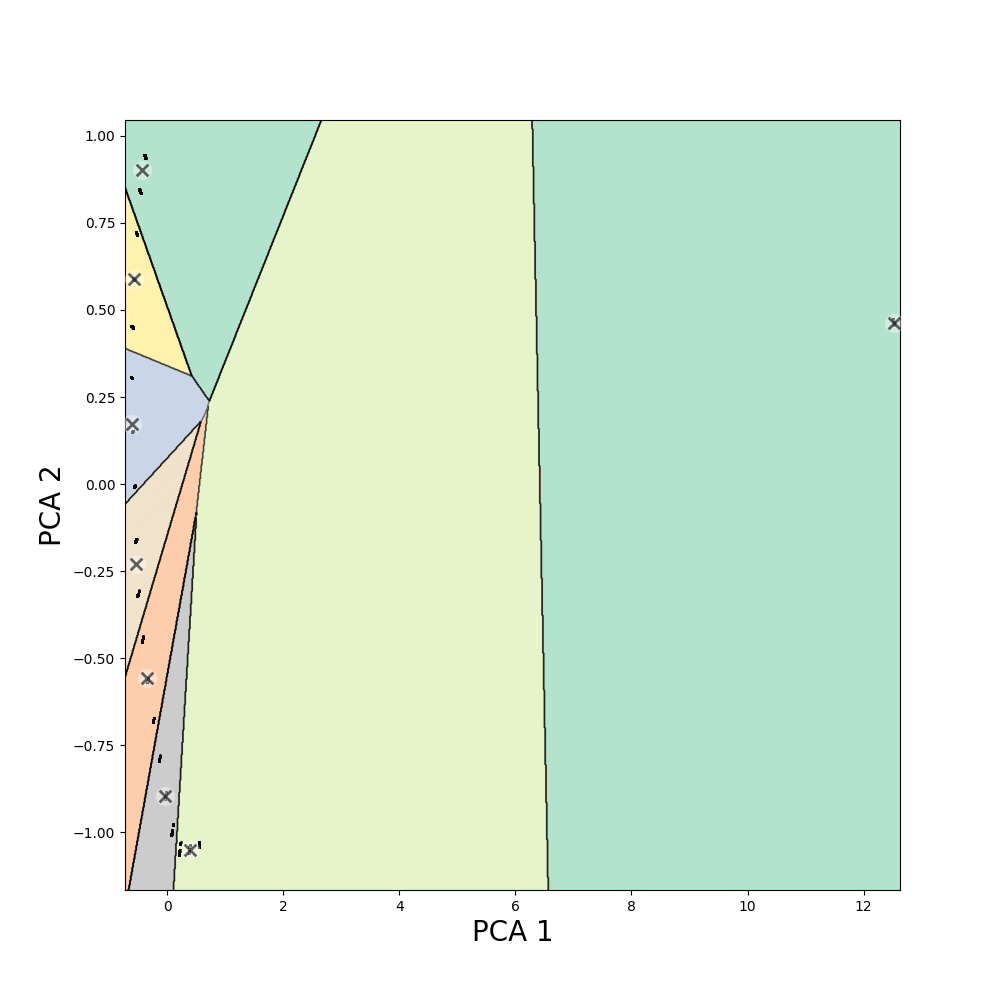
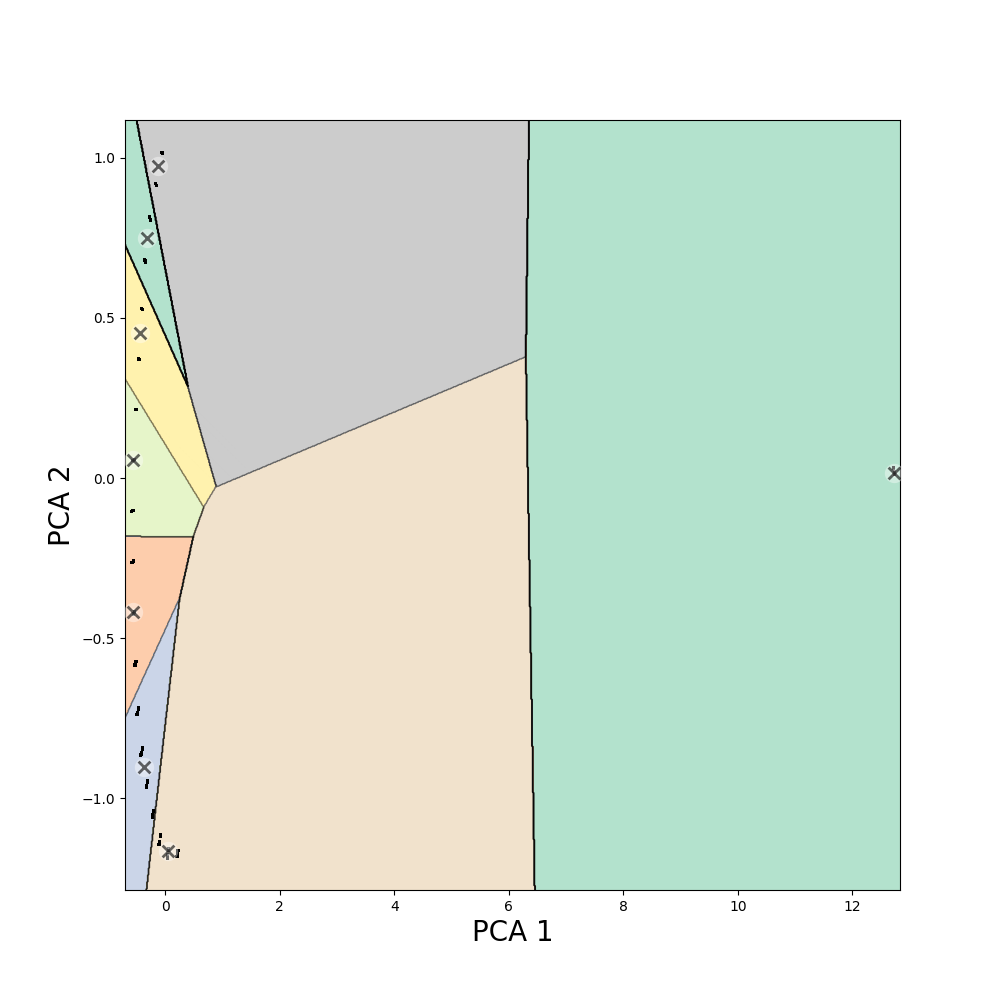
First improvement of deep learning codes

diff --git a/scripts/deep_learning_clustering_hits.py b/scripts/deep_learning_clustering_hits.py
@@ -39,6 +39,8 @@ import pandas as pd
 from sklearn.pipeline import Pipeline
 from tensorflow.keras.utils import to_categorical
 
+tf.keras.utils.set_random_seed(2024) # set random seed for tf, np and python
+
 
 out_dir=os.path.abspath('../output/') # define directory to save plots to
 
@@ -67,27 +69,24 @@ class Columns2Clustering:
         return preprocessed_training, preprocessed_validation, preprocessed_test
         
 
-    def perform_neural_clustering(self):
+    def perform_neural_clustering(self, reduced_features_train):
         """
         Perform neural clustering on 2 features columns
         """
+        normalization_layer_unsup=tf.keras.layers.Normalization(input_shape=(2,))
         neural_model_unsup=tf.keras.models.Sequential([
-        tf.keras.Input(shape=(2,)),
-        tf.keras.layers.Dense(units=5, activation='linear'),
-        tf.keras.layers.Dense(units=5, activation='linear'),
-        tf.keras.layers.Dense(units=5, activation='linear'),
-        tf.keras.layers.Dense(units=5, activation='linear'),
-        tf.keras.layers.Dense(units=5, activation='linear'),
-        tf.keras.layers.Dense(units=5, activation='linear'),
-        tf.keras.layers.Dense(units=5, activation='linear'),
-        tf.keras.layers.Dense(units=5, activation='linear'),
-        tf.keras.layers.Dense(units=5, activation='linear'),
-        tf.keras.layers.Dense(units=5, activation='linear'),
-        tf.keras.layers.Dense(units=5, activation=tf.nn.softmax),
+        normalization_layer_unsup,
+        tf.keras.layers.Dense(units=10, activation='relu'),
+        tf.keras.layers.Dense(units=10, activation='relu'),
+        tf.keras.layers.Dense(units=10, activation='relu'),
+        tf.keras.layers.Dense(units=10, activation='relu'),
+        tf.keras.layers.Dense(units=10, activation='relu'),
+        tf.keras.layers.Dense(units=5, activation='softmax'), # number of clusters set to 5 here
         ])
         neural_clustering=Pipeline([('preprocessing_hits', preprocessing_hits), ('neural_unsupervised', neural_model_unsup)])
-        neural_clustering[1].compile(optimizer='adam', loss='kld', metrics=['accuracy'])
-        neural_clustering.fit(self.training, y_train, neural_unsupervised__epochs=50)
+        neural_clustering[1].compile(optimizer='sgd', loss='sparse_categorical_crossentropy', metrics=['accuracy'])
+        normalization_layer_unsup.adapt(np.array(reduced_features_train))
+        neural_clustering.fit(self.training, y_train, neural_unsupervised__epochs=10, neural_unsupervised__batch_size=1000)
         #print('The labels for the first 5 training data are: ', dbscan_clustering.labels_[:5]) # check labels of first 5 training data
 
         return neural_clustering
@@ -124,38 +123,26 @@ class Columns2Clustering:
         """
         y_pred_unsup_valid=neural_clustering.predict(X_valid)
         
-        clusters_unsup_valid=[]
-        for i in y_pred_unsup_valid:
-            temp=[]
-            for (x,y) in enumerate(i):
-                if y==max(i):
-                    temp.append(x)
-            clusters_unsup_valid.append(temp[0])
-        
         #print('The labels for the first 5 validation data are: \n', y_pred_unsup_valid[:5]) # check labels for the first 5 validation data
         
         return y_pred_unsup_valid
 
 
      
-    def extract_features_target_relationship(self, y_train, y_valid):
+    def extract_features_target_relationship(self, reduced_features_train, y_train, y_valid):
         """
         Find relationships between 2 columns selected (features) and description (target) using neural networks
         Assign to each observation a description to know the type of trait -> supervised learning
         """
+        normalization_layer_sup=tf.keras.layers.Normalization(input_shape=(2,))
         neural_model_sup=tf.keras.models.Sequential([
-        tf.keras.Input(shape=(2,)),
-        tf.keras.layers.Dense(units=5, activation=tf.nn.relu),
-        tf.keras.layers.Dense(units=5, activation=tf.nn.relu),
-        tf.keras.layers.Dense(units=5, activation=tf.nn.relu),
-        tf.keras.layers.Dense(units=5, activation=tf.nn.relu),
-        tf.keras.layers.Dense(units=5, activation=tf.nn.relu),
-        tf.keras.layers.Dense(units=5, activation=tf.nn.relu),
-        tf.keras.layers.Dense(units=5, activation=tf.nn.relu),
-        tf.keras.layers.Dense(units=5, activation=tf.nn.relu),
-        tf.keras.layers.Dense(units=5, activation=tf.nn.relu),
-        tf.keras.layers.Dense(units=5, activation=tf.nn.relu),
-        tf.keras.layers.Dense(units=3, activation=tf.nn.softmax),
+        normalization_layer_sup,
+        tf.keras.layers.Dense(units=10, activation='relu'),
+        tf.keras.layers.Dense(units=10, activation='relu'),
+        tf.keras.layers.Dense(units=10, activation='relu'),
+        tf.keras.layers.Dense(units=10, activation='relu'),
+        tf.keras.layers.Dense(units=10, activation='relu'),
+        tf.keras.layers.Dense(1),
         ])
         
         
@@ -168,10 +155,10 @@ class Columns2Clustering:
 
 
         neural_assign=Pipeline([('preprocessing_hits', preprocessing_hits), ('neural_supervised', neural_model_sup)])
-        neural_assign[1].compile(optimizer='adam', loss='categorical_crossentropy', metrics=['accuracy'])
-        neural_assign.fit(self.training, y_train, neural_supervised__epochs=50)
+        neural_assign[1].compile(optimizer='adam', loss='mse', metrics=['RootMeanSquaredError'])
+        normalization_layer_sup.adapt(np.array(reduced_features_train))
+        neural_assign.fit(self.training, y_train, neural_supervised__epochs=10, neural_supervised__batch_size=1000)
         y_supervised_pred=neural_assign.predict(self.validation)
-        
         
         #print('The prediction for the first 5 validation data is :', y_pred[:5])
         
@@ -202,7 +189,7 @@ def main():
 
     X_train_features, X_valid_features, X_test_features=clustering_task.get_features()
 
-    actual_clustering=clustering_task.perform_neural_clustering()
+    actual_clustering=clustering_task.perform_neural_clustering(X_train_features)
 
     Columns2Clustering.visualize_plot(actual_clustering[1], X_train_features)
 
@@ -210,7 +197,7 @@ def main():
 
     prediction_clusters=Columns2Clustering.predict_neural_clustering(actual_clustering[1], X_valid_features)
 
-    extracted_annotation=clustering_task.extract_features_target_relationship(y_train, y_valid)
+    extracted_annotation=clustering_task.extract_features_target_relationship(X_train_features, y_train, y_valid)
 
     Columns2Clustering.visualize_plot_annotation(X_valid_features, extracted_annotation, 'predicted')
 

diff --git a/scripts/deep_learning_clustering_qtl.py b/scripts/deep_learning_clustering_qtl.py
@@ -39,6 +39,8 @@ import pandas as pd
 from sklearn.pipeline import Pipeline
 from tensorflow.keras.utils import to_categorical
 
+tf.keras.utils.set_random_seed(2024) # set random seed for tf, np and python
+
 
 out_dir=os.path.abspath('../output/') # define directory to save plots to
 
@@ -67,27 +69,24 @@ class Columns2Clustering:
         return preprocessed_training, preprocessed_validation, preprocessed_test
         
 
-    def perform_neural_clustering(self):
+    def perform_neural_clustering(self, reduced_features_train):
         """
         Perform neural clustering on 2 features columns
         """
+        normalization_layer_unsup=tf.keras.layers.Normalization(input_shape=(2,))
         neural_model_unsup=tf.keras.models.Sequential([
-        tf.keras.Input(shape=(2,)),
-        tf.keras.layers.Dense(units=5, activation='linear'),
-        tf.keras.layers.Dense(units=5, activation='linear'),
-        tf.keras.layers.Dense(units=5, activation='linear'),
-        tf.keras.layers.Dense(units=5, activation='linear'),
-        tf.keras.layers.Dense(units=5, activation='linear'),
-        tf.keras.layers.Dense(units=5, activation='linear'),
-        tf.keras.layers.Dense(units=5, activation='linear'),
-        tf.keras.layers.Dense(units=5, activation='linear'),
-        tf.keras.layers.Dense(units=5, activation='linear'),
-        tf.keras.layers.Dense(units=5, activation='linear'),
-        tf.keras.layers.Dense(units=5, activation=tf.nn.softmax),
+        normalization_layer_unsup,
+        tf.keras.layers.Dense(units=10, activation='relu'),
+        tf.keras.layers.Dense(units=10, activation='relu'),
+        tf.keras.layers.Dense(units=10, activation='relu'),
+        tf.keras.layers.Dense(units=10, activation='relu'),
+        tf.keras.layers.Dense(units=10, activation='relu'),
+        tf.keras.layers.Dense(units=5, activation='softmax'), # number of clusters set to 5 here
         ])
         neural_clustering=Pipeline([('preprocessing_qtl', preprocessing_qtl), ('neural_unsupervised', neural_model_unsup)])
-        neural_clustering[1].compile(optimizer='adam', loss='kld', metrics=['accuracy'])
-        neural_clustering.fit(self.training, y_train, neural_unsupervised__epochs=50)
+        neural_clustering[1].compile(optimizer='sgd', loss='sparse_categorical_crossentropy', metrics=['accuracy'])
+        normalization_layer_unsup.adapt(np.array(reduced_features_train))
+        neural_clustering.fit(self.training, y_train, neural_unsupervised__epochs=10, neural_unsupervised__batch_size=1000)
         #print('The labels for the first 5 training data are: ', dbscan_clustering.labels_[:5]) # check labels of first 5 training data
 
         return neural_clustering
@@ -124,38 +123,26 @@ class Columns2Clustering:
         """
         y_pred_unsup_valid=neural_clustering.predict(X_valid)
         
-        clusters_unsup_valid=[]
-        for i in y_pred_unsup_valid:
-            temp=[]
-            for (x,y) in enumerate(i):
-                if y==max(i):
-                    temp.append(x)
-            clusters_unsup_valid.append(temp[0])
-        
         #print('The labels for the first 5 validation data are: \n', y_pred_unsup_valid[:5]) # check labels for the first 5 validation data
         
         return y_pred_unsup_valid
 
 
      
-    def extract_features_target_relationship(self, y_train, y_valid):
+    def extract_features_target_relationship(self, reduced_features_train, y_train, y_valid):
         """
         Find relationships between 2 columns selected (features) and description (target) using neural networks
         Assign to each observation a description to know the type of trait -> supervised learning
         """
+        normalization_layer_sup=tf.keras.layers.Normalization(input_shape=(2,))
         neural_model_sup=tf.keras.models.Sequential([
-        tf.keras.Input(shape=(2,)),
-        tf.keras.layers.Dense(units=5, activation=tf.nn.relu),
-        tf.keras.layers.Dense(units=5, activation=tf.nn.relu),
-        tf.keras.layers.Dense(units=5, activation=tf.nn.relu),
-        tf.keras.layers.Dense(units=5, activation=tf.nn.relu),
-        tf.keras.layers.Dense(units=5, activation=tf.nn.relu),
-        tf.keras.layers.Dense(units=5, activation=tf.nn.relu),
-        tf.keras.layers.Dense(units=5, activation=tf.nn.relu),
-        tf.keras.layers.Dense(units=5, activation=tf.nn.relu),
-        tf.keras.layers.Dense(units=5, activation=tf.nn.relu),
-        tf.keras.layers.Dense(units=5, activation=tf.nn.relu),
-        tf.keras.layers.Dense(units=3, activation=tf.nn.softmax),
+        normalization_layer_sup,
+        tf.keras.layers.Dense(units=10, activation='relu'),
+        tf.keras.layers.Dense(units=10, activation='relu'),
+        tf.keras.layers.Dense(units=10, activation='relu'),
+        tf.keras.layers.Dense(units=10, activation='relu'),
+        tf.keras.layers.Dense(units=10, activation='relu'),
+        tf.keras.layers.Dense(1),
         ])
         
         
@@ -168,10 +155,10 @@ class Columns2Clustering:
 
 
         neural_assign=Pipeline([('preprocessing_qtl', preprocessing_qtl), ('neural_supervised', neural_model_sup)])
-        neural_assign[1].compile(optimizer='adam', loss='categorical_crossentropy', metrics=['accuracy'])
-        neural_assign.fit(self.training, y_train, neural_supervised__epochs=50)
+        neural_assign[1].compile(optimizer='adam', loss='mse', metrics=['RootMeanSquaredError'])
+        normalization_layer_sup.adapt(np.array(reduced_features_train))
+        neural_assign.fit(self.training, y_train, neural_supervised__epochs=10, neural_supervised__batch_size=1000)
         y_supervised_pred=neural_assign.predict(self.validation)
-        
         
         #print('The prediction for the first 5 validation data is :', y_pred[:5])
         
@@ -202,7 +189,7 @@ def main():
 
     X_train_features, X_valid_features, X_test_features=clustering_task.get_features()
 
-    actual_clustering=clustering_task.perform_neural_clustering()
+    actual_clustering=clustering_task.perform_neural_clustering(X_train_features)
 
     Columns2Clustering.visualize_plot(actual_clustering[1], X_train_features)
 
@@ -210,7 +197,7 @@ def main():
 
     prediction_clusters=Columns2Clustering.predict_neural_clustering(actual_clustering[1], X_valid_features)
 
-    extracted_annotation=clustering_task.extract_features_target_relationship(y_train, y_valid)
+    extracted_annotation=clustering_task.extract_features_target_relationship(X_train_features, y_train, y_valid)
 
     Columns2Clustering.visualize_plot_annotation(X_valid_features, extracted_annotation, 'predicted')
 

diff --git a/scripts/dbscan_clustering_knn_prediction_hits.py b/scripts/dbscan_clustering_knn_prediction_hits.py
@@ -36,7 +36,7 @@ X_test=X_test[['one_hot_desc1', 'one_hot_desc2', 'one_hot_desc3', 'p_lrt', 'chr_
 
 # 2. Select the 2 columns, do clustering and plot
 
-from sklearn.cluster import DBSCAN # import DBSCAN class for clustering
+from sklearn.cluster import OPTICS # import OPTICS class to do DBSCAN clustering
 import matplotlib.pyplot as plt # import plot manager
 import os
 import pandas as pd
@@ -70,7 +70,7 @@ class Columns2Clustering(ModellingDBSCAN):
         """
         Perform DBSCAN clustering on 2 features columns
         """
-        dbscan_clustering=Pipeline([('preprocessing_hits', preprocessing_hits), ('dbscan', DBSCAN(eps=0.25))])
+        dbscan_clustering=Pipeline([('preprocessing_hits', preprocessing_hits), ('optics', OPTICS(cluster_method='dbscan'))])
         dbscan_clustering.fit(self.training) # work with 2 features provided
         #print('The labels for the first 5 training data are: ', dbscan_clustering.labels_[:5]) # check labels of first 5 training data
         

diff --git a/scripts/kmeans_clustering_svm_prediction_hits.py b/scripts/kmeans_clustering_svm_prediction_hits.py
@@ -148,6 +148,8 @@ def main():
     actual_clustering=clustering_task.perform_kmeans_clustering()
 
     Columns2Clustering.visualize_plot(Columns2Clustering.plot_kmeans, actual_clustering[0][1], X_train_features)
+    
+    Columns2Clustering.visualize_plot(Columns2Clustering.plot_kmeans, actual_clustering[0][1], X_valid_features)
 
     prediction_clusters=actual_clustering[1]
 

diff --git a/scripts/kmeans_clustering_svm_prediction_qtl.py b/scripts/kmeans_clustering_svm_prediction_qtl.py
@@ -148,6 +148,8 @@ def main():
     actual_clustering=clustering_task.perform_kmeans_clustering()
 
     Columns2Clustering.visualize_plot(Columns2Clustering.plot_kmeans, actual_clustering[0][1], X_train_features)
+    
+    Columns2Clustering.visualize_plot(Columns2Clustering.plot_kmeans, actual_clustering[0][1], X_valid_features)
 
     prediction_clusters=actual_clustering[1]
 
